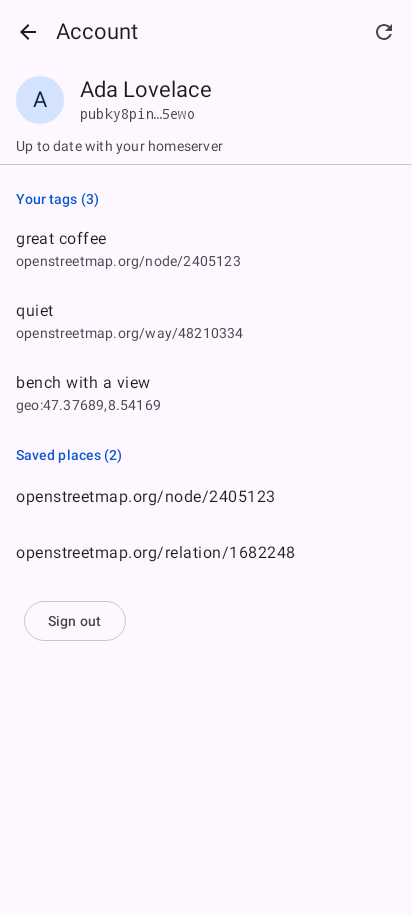
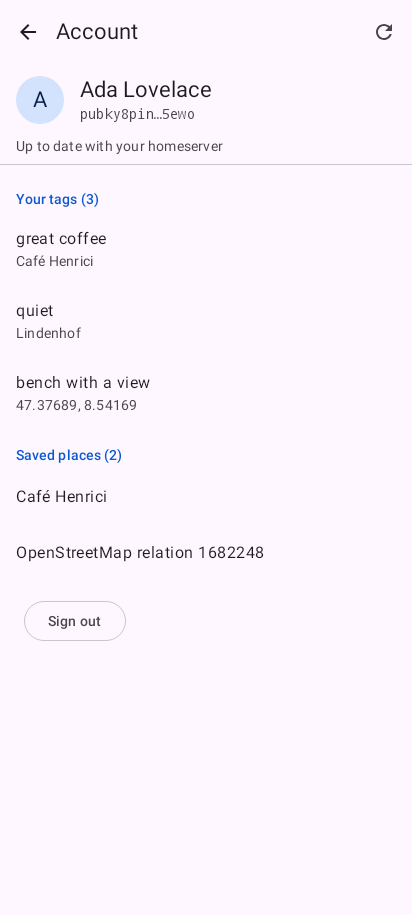
The Account page shows your places by name, not by link (#19)
* fix(account): list tags and saved places by the place's name, not its link

The Account page showed each tagged and saved place as its raw link
(openstreetmap.org/node/2405123, geo:47.37689,8.54169). It now shows the
name the app stored for the place, as the Saved page does, and a place
without one as its link in words (OpenStreetMap node 2405123,
47.37689, 8.54169).

* fix(account): name a place however the homeserver spells it; name only the rows shown

The page looks the name up, and spells the link in words, from the place as
the core spells it, so a link another app wrote as http:// or without www.
reads the same as on the Saved page. The labels are computed once per change
of the cached data or the names, for the rows the page shows.

* test(account): reference screenshots of the Account page with named places

diff --git a/androidApp/src/test/kotlin/to/pubky/maps/android/AccountPageTest.kt b/androidApp/src/test/kotlin/to/pubky/maps/android/AccountPageTest.kt
@@ -1,0 +1,88 @@
+package to.pubky.maps.android
+
+import androidx.compose.ui.test.assertCountEquals
+import androidx.compose.ui.test.junit4.createComposeRule
+import androidx.compose.ui.test.onAllNodesWithText
+import androidx.compose.ui.test.onNodeWithText
+import org.junit.Rule
+import org.junit.Test
+import org.junit.runner.RunWith
+import org.robolectric.RobolectricTestRunner
+import org.robolectric.annotation.Config
+import to.pubky.maps.account.AccountScreen
+import to.pubky.maps.account.AccountState
+import to.pubky.maps.account.AccountUser
+import to.pubky.maps.account.Connection
+import to.pubky.maps.account.accountPlaceLabel
+import to.pubky.maps.cache.CachedAccount
+import to.pubky.maps.cache.CachedBookmark
+import to.pubky.maps.cache.CachedTag
+import to.pubky.maps.ui.PubkyMapsTheme
+
+/** The account page lists the user's tags and saved places by the places' names, never by a raw link. */
+@RunWith(RobolectricTestRunner::class)
+@Config(qualifiers = "w412dp-h915dp")
+class AccountPageTest {
+    @get:Rule
+    val compose = createComposeRule()
+
+    private val user = AccountUser("8pinxxgqs41n4aididenw5apqp1urfmzdztr8jt4abrkdn435ewo", "Ada Lovelace")
+    private val cafe = "https://www.openstreetmap.org/node/2405123"
+    private val unnamed = "https://www.openstreetmap.org/relation/1682248"
+    private val bench = "geo:47.37689,8.54169"
+
+    private fun show(names: Map<String, String>) {
+        val cached =
+            CachedAccount(
+                publicKey = user.publicKey,
+                name = user.name,
+                refreshedAt = 1,
+                tags =
+                    listOf(
+                        CachedTag("/pub/social/v1/tags/1.json", cafe, "great coffee", 2),
+                        CachedTag("/pub/social/v1/tags/2.json", bench, "bench with a view", 1),
+                    ),
+                bookmarks =
+                    listOf(
+                        CachedBookmark("/priv/social/v1/bookmarks/a.json", cafe),
+                        CachedBookmark("/priv/social/v1/bookmarks/b.json", unnamed),
+                    ),
+            )
+        compose.setContent {
+            PubkyMapsTheme {
+                AccountScreen(
+                    state = AccountState.SignedIn(user, cached, Connection.Online),
+                    ringOnThisPhone = false,
+                    onSignIn = {},
+                    onOpenRing = {},
+                    onCancelSignIn = {},
+                    onRefresh = {},
+                    onSignOut = {},
+                    onBack = {},
+                    placeLabel = { place -> accountPlaceLabel(place, names, normalize = { it }) },
+                )
+            }
+        }
+    }
+
+    @Test
+    fun aPlaceWithAKnownNameIsListedByItsName() {
+        show(mapOf(cafe to "Café Henrici"))
+
+        // Under its tag and as a saved place.
+        compose.onAllNodesWithText("Café Henrici").assertCountEquals(2)
+        compose.onAllNodesWithText("OpenStreetMap node", substring = true).assertCountEquals(0)
+        compose.onAllNodesWithText("openstreetmap.org", substring = true).assertCountEquals(0)
+    }
+
+    @Test
+    fun aPlaceWithoutANameIsListedByItsLinkInWords() {
+        show(emptyMap())
+
+        compose.onAllNodesWithText("OpenStreetMap node 2405123").assertCountEquals(2)
+        compose.onNodeWithText("OpenStreetMap relation 1682248").assertExists()
+        compose.onNodeWithText("47.37689, 8.54169").assertExists()
+        compose.onAllNodesWithText("openstreetmap.org", substring = true).assertCountEquals(0)
+        compose.onAllNodesWithText("geo:", substring = true).assertCountEquals(0)
+    }
+}

diff --git a/shared/src/commonMain/kotlin/to/pubky/maps/account/AccountScreen.kt b/shared/src/commonMain/kotlin/to/pubky/maps/account/AccountScreen.kt
@@ -36,6 +36,7 @@ import androidx.compose.material3.TopAppBar
 import androidx.compose.runtime.Composable
 import androidx.compose.runtime.getValue
 import androidx.compose.runtime.mutableStateOf
+import androidx.compose.runtime.remember
 import androidx.compose.runtime.saveable.rememberSaveable
 import androidx.compose.runtime.setValue
 import androidx.compose.ui.Alignment
@@ -49,6 +50,7 @@ import androidx.compose.ui.unit.dp
 import io.github.alexzhirkevich.qrose.rememberQrCodePainter
 import to.pubky.maps.ui.AppIcons
 import to.pubky.maps.ui.rememberSafeLinkOpener
+import to.pubky.maps.write.placeText
 
 // Where people get Pubky Ring: links to open, not servers the app talks to.
 private const val RING_PLAY_URL = "https://play.google.com/store/apps/details?id=to.pubky.ring"
@@ -76,6 +78,8 @@ fun AccountScreen(
     onBack: () -> Unit,
     /** Why the app asks to sign in now ("Sign in to tag this place."), shown above the sign-in. */
     reason: String? = null,
+    /** How a place (as the cache spells it) reads in a list: its name, else its link in words. */
+    placeLabel: (String) -> String = ::placeText,
 ) {
     Scaffold(
         topBar = {
@@ -112,7 +116,7 @@ fun AccountScreen(
                     AccountState.Loading -> Loading()
                     is AccountState.SignedOut -> SignedOut(state, onSignIn, reason)
                     is AccountState.SigningIn -> SigningIn(state, ringOnThisPhone, onOpenRing, onCancelSignIn)
-                    is AccountState.SignedIn -> SignedIn(state, onSignOut)
+                    is AccountState.SignedIn -> SignedIn(state, onSignOut, placeLabel)
                     is AccountState.Unavailable -> Paragraph(state.reason)
                 }
             }
@@ -251,7 +255,21 @@ private fun GetRing() {
 private fun SignedIn(
     state: AccountState.SignedIn,
     onSignOut: () -> Unit,
+    placeLabel: (String) -> String,
 ) {
+    // Only the rows shown are named; naming a place may ask the core to spell it.
+    val tags =
+        remember(state.cached.tags, placeLabel) {
+            state.cached.tags
+                .take(LISTED_ITEMS)
+                .map { it.label to placeLabel(it.place) }
+        }
+    val saved =
+        remember(state.cached.bookmarks, placeLabel) {
+            state.cached.bookmarks
+                .take(LISTED_ITEMS)
+                .map { placeLabel(it.place) to null }
+        }
     var confirmSignOut by rememberSaveable { mutableStateOf(false) }
     if (state.refreshing || state.signingOut) {
         LinearProgressIndicator(Modifier.fillMaxWidth())
@@ -280,13 +298,13 @@ private fun SignedIn(
         title = "Your tags",
         count = state.cached.tags.size,
         empty = "No tags yet.",
-        items = state.cached.tags.map { it.label to placeLabel(it.place) },
+        items = tags,
     )
     ItemSection(
         title = "Saved places",
         count = state.cached.bookmarks.size,
         empty = "No saved places yet.",
-        items = state.cached.bookmarks.map { placeLabel(it.place) to null },
+        items = saved,
     )
     OutlinedButton(
         onClick = { confirmSignOut = true },

diff --git a/shared/src/commonMain/kotlin/to/pubky/maps/App.kt b/shared/src/commonMain/kotlin/to/pubky/maps/App.kt
@@ -23,6 +23,7 @@ import kotlinx.serialization.Serializable
 import to.pubky.maps.account.AccountRoute
 import to.pubky.maps.account.AccountState
 import to.pubky.maps.account.AccountUi
+import to.pubky.maps.account.accountPlaceLabel
 import to.pubky.maps.config.AppSettings
 import to.pubky.maps.config.Service
 import to.pubky.maps.config.SettingsRepository
@@ -319,7 +320,19 @@ private fun AppNavigation(
                     back()
                 }
                 BackHandler(enabled = waiting != null) { leave() }
-                AccountRoute(account = account, onBack = leave, reason = waiting?.intent?.signInReason)
+                val controller = writes?.controller
+                val names =
+                    controller
+                        ?.own
+                        ?.collectAsStateWithLifecycle()
+                        ?.value
+                        ?.names
+                        .orEmpty()
+                val placeLabel: (String) -> String =
+                    remember(controller, names) {
+                        { place -> accountPlaceLabel(place, names, normalize = { controller?.normalize(it) ?: it }) }
+                    }
+                AccountRoute(account = account, onBack = leave, reason = waiting?.intent?.signInReason, placeLabel = placeLabel)
             }
         }
         if (writes != null) {

diff --git a/shared/src/commonTest/kotlin/to/pubky/maps/account/AccountPlacesTest.kt b/shared/src/commonTest/kotlin/to/pubky/maps/account/AccountPlacesTest.kt
@@ -1,0 +1,28 @@
+package to.pubky.maps.account
+
+import kotlin.test.Test
+import kotlin.test.assertEquals
+
+class AccountPlacesTest {
+    // Spells places as the core does for these: https, www., no trailing slash.
+    private val normalize: (String) -> String = { place ->
+        place
+            .removeSuffix("/")
+            .replace("http://", "https://")
+            .replace("https://openstreetmap.org/", "https://www.openstreetmap.org/")
+    }
+
+    private val names = mapOf("https://www.openstreetmap.org/node/2405123" to "Café Henrici")
+
+    @Test
+    fun aPlaceReadsAsItsStoredNameHoweverTheHomeserverSpellsIt() {
+        assertEquals("Café Henrici", accountPlaceLabel("https://www.openstreetmap.org/node/2405123", names, normalize))
+        assertEquals("Café Henrici", accountPlaceLabel("http://openstreetmap.org/node/2405123/", names, normalize))
+    }
+
+    @Test
+    fun aPlaceWithoutANameReadsAsItsLinkInWordsHoweverTheHomeserverSpellsIt() {
+        assertEquals("OpenStreetMap way 48210334", accountPlaceLabel("https://openstreetmap.org/way/48210334/", names, normalize))
+        assertEquals("47.37689, 8.54169", accountPlaceLabel("geo:47.37689,8.54169", names, normalize))
+    }
+}

diff --git a/androidApp/src/test/kotlin/to/pubky/maps/android/ScreenshotTest.kt b/androidApp/src/test/kotlin/to/pubky/maps/android/ScreenshotTest.kt
@@ -25,6 +25,7 @@ import to.pubky.maps.account.AccountScreen
 import to.pubky.maps.account.AccountState
 import to.pubky.maps.account.AccountUser
 import to.pubky.maps.account.Connection
+import to.pubky.maps.account.accountPlaceLabel
 import to.pubky.maps.cache.CachedAccount
 import to.pubky.maps.cache.CachedBookmark
 import to.pubky.maps.cache.CachedTag
@@ -176,6 +177,13 @@ class ScreenshotTest {
                 ),
         )
 
+    /** Names the app stored for two of the places; the relation and the geo point have none. */
+    private val placeNames =
+        mapOf(
+            "https://www.openstreetmap.org/node/2405123" to "Café Henrici",
+            "https://www.openstreetmap.org/way/48210334" to "Lindenhof",
+        )
+
     @Composable
     private fun Account(state: AccountState) {
         AccountScreen(
@@ -187,6 +195,7 @@ class ScreenshotTest {
             onRefresh = {},
             onSignOut = {},
             onBack = {},
+            placeLabel = { place -> accountPlaceLabel(place, placeNames, normalize = { it }) },
         )
     }
 

diff --git a/shared/src/commonTest/kotlin/to/pubky/maps/write/PlaceTextTest.kt b/shared/src/commonTest/kotlin/to/pubky/maps/write/PlaceTextTest.kt
@@ -1,0 +1,23 @@
+package to.pubky.maps.write
+
+import kotlin.test.Test
+import kotlin.test.assertEquals
+
+class PlaceTextTest {
+    @Test
+    fun anOpenStreetMapLinkReadsAsItsKindAndNumber() {
+        assertEquals("OpenStreetMap node 2405123", placeText("https://www.openstreetmap.org/node/2405123"))
+        assertEquals("OpenStreetMap relation 1682248", placeText("https://www.openstreetmap.org/relation/1682248"))
+    }
+
+    @Test
+    fun aGeoLinkReadsAsItsCoordinates() {
+        assertEquals("47.37689, 8.54169", placeText("geo:47.37689,8.54169"))
+        assertEquals("47.1, 8.5", placeText("geo:47.1,8.5;u=10?z=16"))
+    }
+
+    @Test
+    fun anyOtherLinkLosesItsSchemeAndWww() {
+        assertEquals("maps.app.goo.gl/x1", placeText("https://maps.app.goo.gl/x1"))
+    }
+}

diff --git a/shared/src/commonMain/kotlin/to/pubky/maps/account/AccountRoute.kt b/shared/src/commonMain/kotlin/to/pubky/maps/account/AccountRoute.kt
@@ -57,6 +57,8 @@ fun AccountRoute(
     onBack: () -> Unit,
     /** Why the app asks to sign in now, when a write waits for it. */
     reason: String? = null,
+    /** How a place (as the cache spells it) reads in a list: its name, else its link in words. */
+    placeLabel: (String) -> String,
 ) {
     val state by account.controller.state.collectAsStateWithLifecycle()
     val scope = rememberCoroutineScope()
@@ -79,5 +81,6 @@ fun AccountRoute(
         onSignOut = account.controller::signOut,
         onBack = onBack,
         reason = reason,
+        placeLabel = placeLabel,
     )
 }

diff --git a/shared/src/commonMain/kotlin/to/pubky/maps/account/AccountPlaces.kt b/shared/src/commonMain/kotlin/to/pubky/maps/account/AccountPlaces.kt
@@ -1,0 +1,17 @@
+package to.pubky.maps.account
+
+import to.pubky.maps.write.placeText
+
+/**
+ * How the account page names a place: the name the app stored for it ([names], keyed as [normalize]
+ * spells places), else its link in words. [place] is spelled as the homeserver has it, which another
+ * app may have written differently (`http://`, no `www.`, a trailing `/`).
+ */
+fun accountPlaceLabel(
+    place: String,
+    names: Map<String, String>,
+    normalize: (String) -> String,
+): String {
+    val key = normalize(place)
+    return names[key] ?: placeText(key)
+}

diff --git a/shared/src/commonMain/kotlin/to/pubky/maps/account/PubkyId.kt b/shared/src/commonMain/kotlin/to/pubky/maps/account/PubkyId.kt
@@ -6,6 +6,3 @@ package to.pubky.maps.account
  */
 fun shortPubkyId(publicKey: String): String =
     if (publicKey.length <= 12) "pubky$publicKey" else "pubky${publicKey.take(4)}…${publicKey.takeLast(4)}"
-
-/** A place's URI for a list: without the scheme and `www.`, so the part that differs shows first. */
-fun placeLabel(place: String): String = place.removePrefix("https://").removePrefix("http://").removePrefix("www.")

diff --git a/shared/src/commonTest/kotlin/to/pubky/maps/account/AccountLoaderTest.kt b/shared/src/commonTest/kotlin/to/pubky/maps/account/AccountLoaderTest.kt
@@ -65,7 +65,5 @@ class AccountLoaderTest {
     @Test
     fun theShortIdShowsTheStartAndTheEndOfTheKey() {
         assertEquals("pubky8pin…5ewo", shortPubkyId(USER))
-        assertEquals("openstreetmap.org/node/1", placeLabel("https://www.openstreetmap.org/node/1"))
-        assertEquals("geo:47.1,8.5", placeLabel("geo:47.1,8.5"))
     }
 }

diff --git a/scripts/ci/synonym-blocked.py b/scripts/ci/synonym-blocked.py
@@ -108,7 +108,8 @@ def main():
     for _, label in TAGS:
         if label not in shown:
             dev.fail(f"the cached tag {label!r} is not on the Account page")
-    if "openstreetmap.org/way/48210334" not in shown:
+    # No name is stored for the saved place here, so it reads as its link in words.
+    if "OpenStreetMap way 48210334" not in shown:
         dev.fail("the cached saved place is not on the Account page")
     dev.screenshot("account")
     dev.check_alive("account page")
